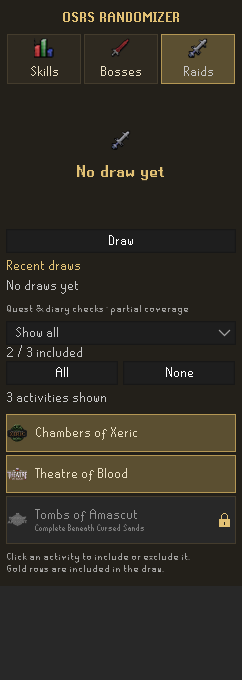
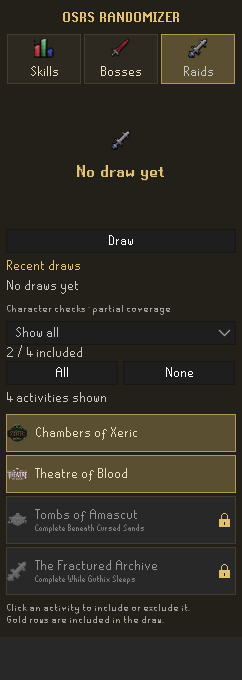
Add The Fractured Archive raid and quest gate

diff --git a/src/test/java/com/osrsrandomizer/QuestAvailabilityTest.java b/src/test/java/com/osrsrandomizer/QuestAvailabilityTest.java
@@ -10,6 +10,19 @@ import static org.junit.Assert.*;
 
 public class QuestAvailabilityTest
 {
+    @Test public void fracturedArchiveRequiresMembershipAndWhileGuthixSleeps()
+    {
+        for (QuestState state : QuestState.values())
+        {
+            Map<Quest, QuestState> states = Collections.singletonMap(Quest.WHILE_GUTHIX_SLEEPS, state);
+            assertEquals(state == QuestState.FINISHED ? null : "Complete While Guthix Sleeps",
+                new QuestAvailability(true, 1, states, true, true).reason(Category.RAIDS, "tfa"));
+            assertEquals("Members only",
+                new QuestAvailability(true, 1, states, true, false).reason(Category.RAIDS, "tfa"));
+        }
+        assertEquals("Waiting for quest data", snapshot(true, 1, Collections.emptyMap()).reason(Category.RAIDS, "tfa"));
+    }
+
     @Test public void skillQuestGatesUnlockOnlyAfterCompletion()
     {
         for (QuestState state : QuestState.values())
@@ -114,7 +127,7 @@ public class QuestAvailabilityTest
             if (snapshot.isChecked(category, activity.getId())) checked++;
             assertNull(snapshot.reason(category, activity.getId()));
         }
-        assertEquals(17, checked);
+        assertEquals(18, checked);
     }
 
     @Test public void mediumWildernessDiaryBlocksOnlyTheThreeSinglesBosses()

diff --git a/src/test/java/com/osrsrandomizer/DrawEngineTest.java b/src/test/java/com/osrsrandomizer/DrawEngineTest.java
@@ -79,8 +79,20 @@ public class DrawEngineTest
     @Test public void catalogueIdsAreUniqueWithinEachCategory()
     {
         assertEquals(53, Category.BOSSES.getActivities().size());
-        assertEquals(3, Category.RAIDS.getActivities().size());
+        assertEquals(4, Category.RAIDS.getActivities().size());
         for (Category category : Category.values())
             assertEquals(category.getActivities().size(), SelectionCodec.decode(category, null).size());
+    }
+
+    @Test public void newRaidPreservesOldSelectionsAndCanBeDrawnAndSaved()
+    {
+        assertEquals(new LinkedHashSet<>(Arrays.asList("cox", "tob", "toa")),
+            SelectionCodec.decode(Category.RAIDS, "cox,tob,toa"));
+        assertFalse(SelectionCodec.decode(Category.RAIDS, "").contains("tfa"));
+        assertTrue(SelectionCodec.decode(Category.RAIDS, null).contains("tfa"));
+        Activity raid = new DrawEngine(new Random(1)).draw(Category.RAIDS, Collections.singleton("tfa")).get();
+        assertEquals("The Fractured Archive", raid.getName());
+        assertEquals("tfa", HistoryCodec.encode(HistoryCodec.decode(Category.RAIDS, "tfa")));
+        assertNotNull(ActivityIcons.class.getResource("/com/osrsrandomizer/icons/raids/tfa.png"));
     }
 }

diff --git a/src/test/java/com/osrsrandomizer/RandomizerPanelTest.java b/src/test/java/com/osrsrandomizer/RandomizerPanelTest.java
@@ -217,7 +217,7 @@ public class RandomizerPanelTest
             assertFalse(button(panel, "Draw").isEnabled());
             assertTrue(saved.get(Category.SKILLS).isEmpty());
             button(panel, "Raids").doClick();
-            assertEquals(3, cards(panel).size());
+            assertEquals(4, cards(panel).size());
             assertTrue(button(panel, "Draw").isEnabled());
             button(panel, "Draw").doClick();
             for (int tick = 0; tick < 9; tick++) panel.advanceAnimation();

diff --git a/src/main/java/com/osrsrandomizer/Category.java b/src/main/java/com/osrsrandomizer/Category.java
@@ -89,7 +89,8 @@ public enum Category
     RAIDS("raids", "Raids", Arrays.asList(
         new Activity("cox", "Chambers of Xeric"),
         new Activity("tob", "Theatre of Blood"),
-        new Activity("toa", "Tombs of Amascut")));
+        new Activity("toa", "Tombs of Amascut"),
+        new Activity("tfa", "The Fractured Archive")));
 
     private final String key;
     private final String label;

diff --git a/src/main/java/com/osrsrandomizer/QuestAvailability.java b/src/main/java/com/osrsrandomizer/QuestAvailability.java
@@ -35,6 +35,7 @@ final class QuestAvailability
         rules.put("bosses:amoxliatl", Quest.THE_HEART_OF_DARKNESS);
         rules.put("bosses:deranged_archaeologist", Quest.BONE_VOYAGE);
         rules.put("raids:toa", Quest.BENEATH_CURSED_SANDS);
+        rules.put("raids:tfa", Quest.WHILE_GUTHIX_SLEEPS);
         REQUIREMENTS = Collections.unmodifiableMap(rules);
     }
 

diff --git a/QUEST-REQUIREMENTS.md b/QUEST-REQUIREMENTS.md
@@ -24,6 +24,7 @@ The following quests must be finished. Boss entries refer to repeatable post-que
 | Amoxliatl | The Heart of Darkness |
 | Deranged Archaeologist | Bone Voyage |
 | Tombs of Amascut | Beneath Cursed Sands |
+| The Fractured Archive | While Guthix Sleeps |
 
 Corrupted Gauntlet can have additional access requirements; only its quest gate is checked here. Zulrah, Perilous Moons, Nex, Doom of Mokhaiotl, Theatre of Blood and other entries outside the tables are deliberately unmapped pending verification of their exact access rules. Do not interpret a selectable entry as a verified accessible activity.
 
@@ -67,7 +68,7 @@ Automated tests cover requirement states, immutable snapshots, preserved selecti
 | Spindel | Medium Wilderness Diary |
 | Calvar'ion | Medium Wilderness Diary |
 
-The diary rules cover three bosses. With the two skill quest gates below, 17 activities have supported quest or diary checks. The filter reads RuneLite's WILDERNESS_DIARY_MEDIUM_COMPLETE flag. Unknown diary data keeps these entries blocked until refreshed. Callisto, Venenatis and Vet'ion do not inherit this restriction.
+The diary rules cover three bosses. With the two skill quest gates below, 18 activities have supported quest or diary checks. The filter reads RuneLite's WILDERNESS_DIARY_MEDIUM_COMPLETE flag. Unknown diary data keeps these entries blocked until refreshed. Callisto, Venenatis and Vet'ion do not inherit this restriction.
 
 Sources: [OSRS Wiki: Wilderness](https://oldschool.runescape.wiki/w/Wilderness) documents the medium diary gate for the weaker variants; [RuneLite VarbitID](https://github.com/runelite/runelite/blob/master/runelite-api/src/main/java/net/runelite/api/gameval/VarbitID.java) defines the completion flag.
 
@@ -80,4 +81,7 @@ Membership is required for Agility, Construction, Farming, Fletching, Herblore, 
 
 The plugin reads RuneLite's [MEMBERSHIP_DAYS](https://github.com/runelite/runelite/blob/master/runelite-api/src/main/java/net/runelite/api/VarPlayer.java) after login ticks. Positive subscription days or a members world indicate membership; zero days on a free world indicates a free account. Unknown data keeps member content blocked pending refresh. Membership is checked before quest and diary gates, so free accounts see Members only.
 
-Manual checks: compare a free account and a member account on a free world; check a member missing Pandemonium or Druidic Ritual; confirm unlocks and saved choices after completion or subscription change. All 23 automated tests pass; live account reads still require in-game validation.
+Manual checks: compare a free account and a member account on a free world; check a member missing Pandemonium or Druidic Ritual; confirm unlocks and saved choices after completion or subscription change. All 25 automated tests pass; live account reads still require in-game validation.
+
+## The Fractured Archive — reviewed 21 October 2026
+[Jagex's raid page](https://osrs.runescape.com/raids/fractured-archive) confirms the While Guthix Sleeps completion requirement. The existing membership check applies. The [OSRS Wiki](https://oldschool.runescape.wiki/w/The_Fractured_Archive) describes an introductory miniquest triggered on first entry; this plugin does not check its progression or other encounter-specific conditions.

diff --git a/README.md b/README.md
@@ -31,11 +31,11 @@ Requires a JDK (tested with JDK 21; Java 11 bytecode target). The first build do
 
 On Windows use gradlew.bat, or double-click Lancer-RuneLite.bat to launch the development client. For Jagex accounts, follow [RuneLite's official guide](https://github.com/runelite/runelite/wiki/Using-Jagex-Accounts).
 
-The plugin is being prepared for Plugin Hub review and is not yet available there. The built plugin JAR is not a standalone installer.
+Install OSRS Randomizer from RuneLite's Plugin Hub. New updates require Plugin Hub review before distribution. The built plugin JAR is not a standalone installer.
 
 ## Validation and data
 
-23 automated tests cover selection persistence, draws, repeat protection, character gates, animation cancellation, and history restoration. The author has also confirmed history persistence and character filtering in the development client.
+25 automated tests cover selection persistence, draws, repeat protection, character gates, animation cancellation, and history restoration. The author has also confirmed history persistence and character filtering in the development client.
 
 The plugin does not automate gameplay or make network requests. It reads character quest, diary and membership state through RuneLite's client API. Selection IDs and recent draw IDs are stored using RuneLite ConfigManager; history keys include the character's account hash. RuneLite's own configuration storage and sync behavior applies. No login credentials are read or stored by the plugin.
 
@@ -46,3 +46,6 @@ Code: [BSD 2-Clause](LICENSE), MarcanQc. Built from the [RuneLite example plugin
 OSRS activity art and the OSRS elements of the logo belong to their respective rights holders, including Jagex; the code license does not relicense that artwork. This is an unofficial fan project, not affiliated with Jagex or RuneLite.
 
 [Guide en français](README.fr.md)
+
+## 0.1.1 — The Fractured Archive
+Adds the fourth raid with membership and While Guthix Sleeps checks, using the bundled generic raid icon. Existing saved selections stay unchanged: click The Fractured Archive or All in the Raids tab to include it. Fresh selections include all four raids. The introductory miniquest and other encounter-specific conditions are not checked.
